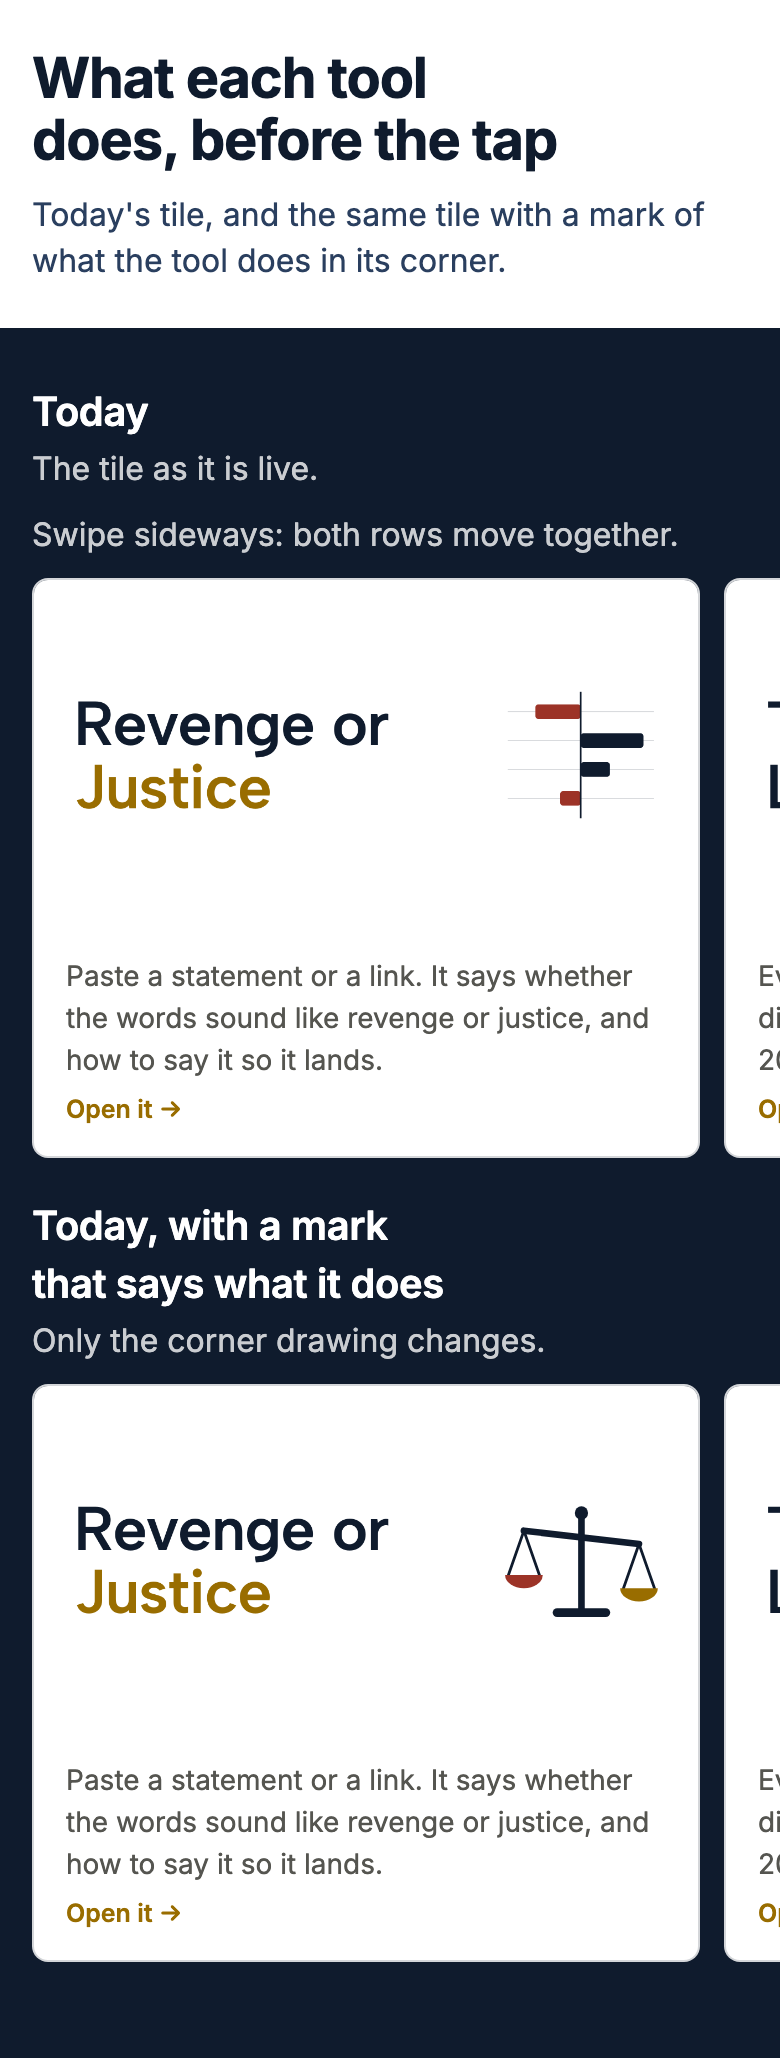
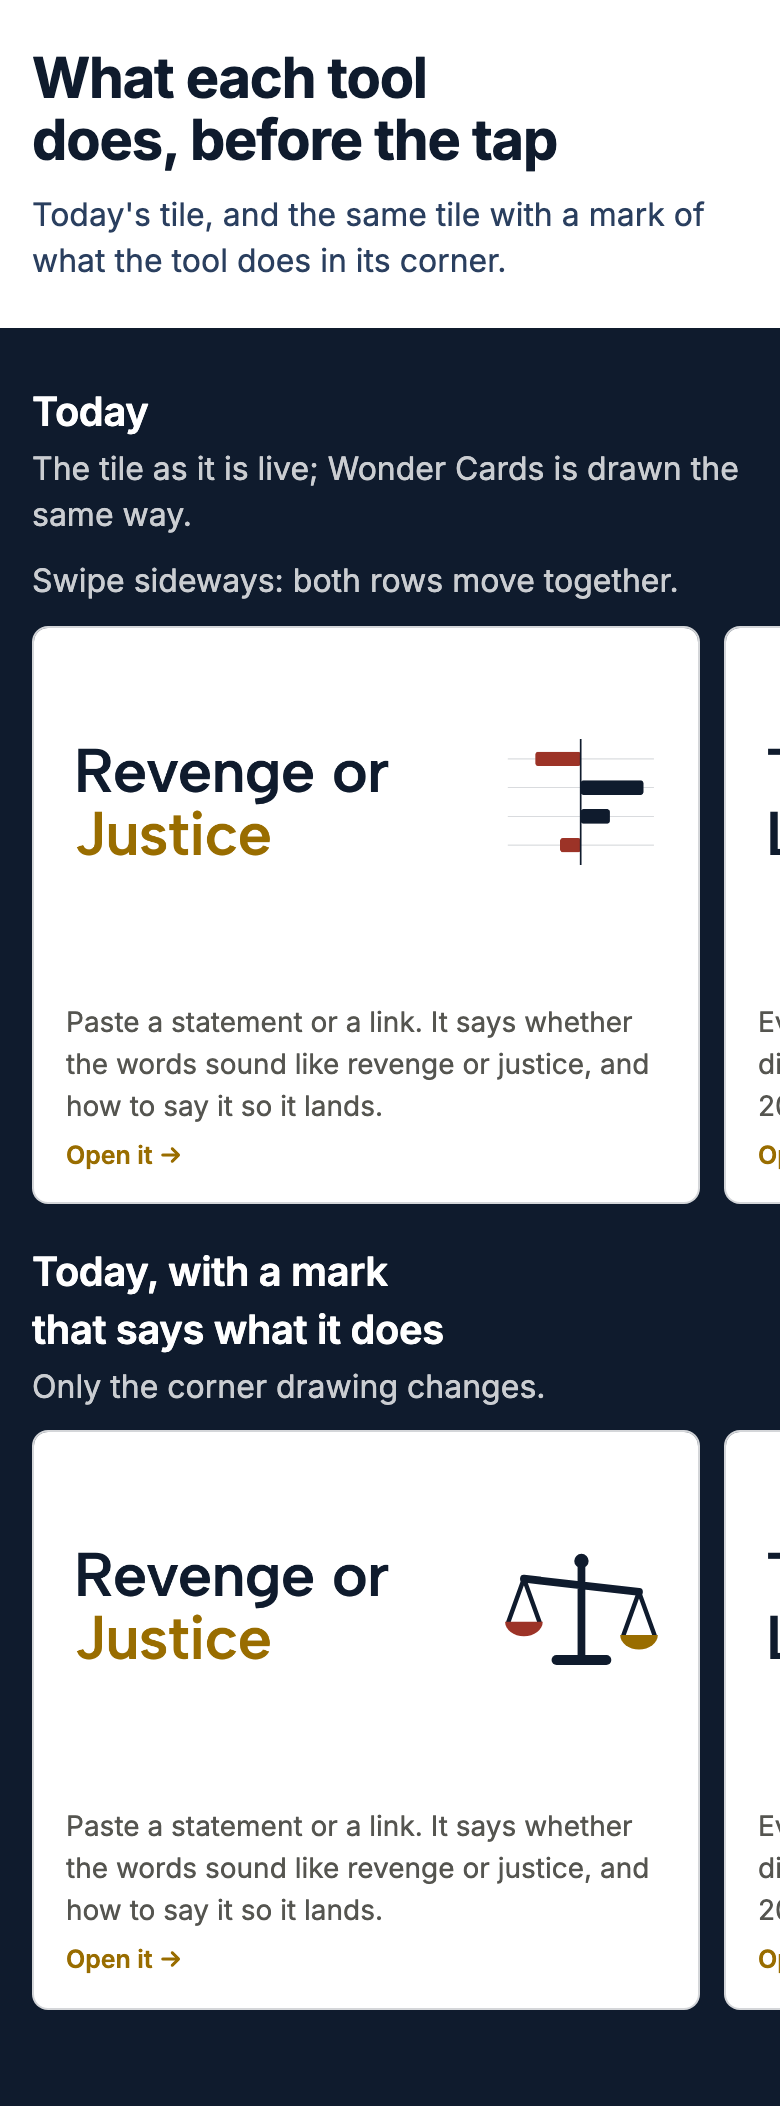
tile-value mockup, round 4 second pass: the review's four fixes
The visual-sociologist review of e9797d2 failed with four fixes, all applied:
1. Which AI: tapering roots, a stem thicker at the top splitting into four curving roots, no end
   circles; the root taken stays gold.
2. One line weight for the set: 14 for the main strokes, 8 for the fine ones (scales, pen, cards).
3. Wonder Cards: a fanned hand of three cards with the question on the front card.
4. The Today note: "The tile as it is live; Wonder Cards is drawn the same way."
Renders at 390 and 1440 redone.

diff --git a/public/mockups/tile-value.html b/public/mockups/tile-value.html
@@ -43,8 +43,8 @@
   one object, flat colour, no text, read at the smallest size it will be seen.
   Signature element: the marks. Scales for Revenge or Justice (justice's gold pan lower, the one that
   weighs); a signature and a pen nib for The Undo List (the pen is how most of it is undone); one stem
-  diverging into three roots, one taken, for Which AI should I use?; the deck's own question card for
-  Wonder Cards.
+  diverging into four tapering roots, the one taken in gold, for Which AI should I use?; a fanned hand of
+  the deck's cards with the question on the front one for Wonder Cards. One line weight for the set.
 
   Token plan: #FFFFFF page; #0F1B2D navy, the ink and the gallery field as live; #555550 the tile line as
   live; #996D00 the link as live; white at 0.78 for the row notes on navy. Inside the marks, only each
@@ -66,9 +66,9 @@
   marks are drawings of the tool's own object in its own colours, sit where the live tile already has a
   drawing, and carry no label of their own. Which AI's roots were drawn three ways side by side
   (docs/renders/tilevalue1-2026-11-07/whichai-roots-trial.html): a fork downward, plant roots under a
-  ground line, a fork sideways. The downward fork is kept: at 78px, its size on a phone, it still reads as
-  one stem splitting three ways with one end taken; the plant roots blur into a stick figure at that size,
-  and the sideways fork reads as a wiring diagram rather than roots.
+  ground line, a fork sideways. The downward fork was kept (at 78px, its size on a phone, it read as one
+  stem splitting); the visual-sociologist review then had its end circles go (they read as a plug or a
+  code branch) and the plant roots' taper come in, without their soil line or sprout.
 
   Wonder Cards is the kids deck, "What Should We Wonder?" at wondercards-teal.vercel.app. It is not on the
   tool list, so its first tile is drawn the way the card route draws a tile
@@ -143,44 +143,62 @@ h1 { font-size: clamp(28px, 1.2rem + 1.6vw, 42px); font-weight: 700; letter-spac
   function box(ground, inner) {
     return '<svg viewBox="0 0 280 280" aria-hidden="true"><rect width="280" height="280" fill="' + ground + '"/>' + inner + '</svg>';
   }
+  // A filled outline along a cubic curve p (four points), w0 wide at its start and w1 at its rounded end.
+  function taper(p, w0, w1) {
+    var L = [], R = [], n = 16;
+    function at(t) {
+      var u = 1 - t, x = 0, y = 0, dx, dy, k = [u * u * u, 3 * u * u * t, 3 * u * t * t, t * t * t];
+      for (var i = 0; i < 4; i++) { x += k[i] * p[i][0]; y += k[i] * p[i][1]; }
+      dx = 3 * u * u * (p[1][0] - p[0][0]) + 6 * u * t * (p[2][0] - p[1][0]) + 3 * t * t * (p[3][0] - p[2][0]);
+      dy = 3 * u * u * (p[1][1] - p[0][1]) + 6 * u * t * (p[2][1] - p[1][1]) + 3 * t * t * (p[3][1] - p[2][1]);
+      var m = Math.sqrt(dx * dx + dy * dy); return [x, y, -dy / m, dx / m];
+    }
+    for (var i = 0; i <= n; i++) {
+      var t = i / n, q = at(t), w = (w0 + (w1 - w0) * t) / 2;
+      L.push((q[0] + q[2] * w).toFixed(1) + ' ' + (q[1] + q[3] * w).toFixed(1));
+      R.unshift((q[0] - q[2] * w).toFixed(1) + ' ' + (q[1] - q[3] * w).toFixed(1));
+    }
+    var r = (w1 / 2).toFixed(1);
+    return '<path d="M' + L.join(' L') + ' A' + r + ' ' + r + ' 0 0 0 ' + R.join(' L') + ' Z"/>';
+  }
   var MARK = {
+    // One line weight for the set: 14 for every main stroke, 8 for the fine ones (the scales' cords, the
+    // signature's line, the card edges).
     // The scales of justice, in its own navy, revenge red and justice gold; justice's pan sits lower.
     'revenge-or-justice': box('#FFFFFF',
       '<g fill="none" stroke="' + NAVY + '" stroke-linecap="round">'
-      + '<path d="M140 64 V232" stroke-width="12"/><path d="M36 88 L244 112" stroke-width="12"/>'
-      + '<path d="M36 88 L8 168 M36 88 L64 168 M244 112 L216 192 M244 112 L272 192" stroke-width="5"/></g>'
-      + '<circle cx="140" cy="56" r="12" fill="' + NAVY + '"/>'
-      + '<rect x="88" y="228" width="104" height="16" rx="8" fill="' + NAVY + '"/>'
-      + '<path d="M2 168 H70 A34 24 0 0 1 2 168 Z" fill="#9C3327"/>'
-      + '<path d="M210 192 H278 A34 24 0 0 1 210 192 Z" fill="#996D00"/>'),
+      + '<path d="M140 64 V230 M36 88 L244 112" stroke-width="14"/>'
+      + '<path d="M36 88 L8 166 M36 88 L64 166 M244 112 L216 190 M244 112 L272 190" stroke-width="8"/></g>'
+      + '<circle cx="140" cy="56" r="13" fill="' + NAVY + '"/>'
+      + '<rect x="86" y="226" width="108" height="18" rx="9" fill="' + NAVY + '"/>'
+      + '<path d="M2 166 H70 A34 26 0 0 1 2 166 Z" fill="#9C3327"/>'
+      + '<path d="M210 190 H278 A34 26 0 0 1 210 190 Z" fill="#996D00"/>'),
     // The stroke of a pen: a signature on its line, the gold nib at its end.
-    'undo': box('#FFFFFF', '<g transform="translate(0 -14)">'
-      + '<path d="M24 226 H256" stroke="' + NAVY + '" stroke-opacity="0.3" stroke-width="5" stroke-linecap="round"/>'
-      + '<path d="M28 200 C44 150 72 120 84 140 C96 160 66 214 84 210 C102 206 112 150 128 156 C144 162 124 204 142 202 C160 200 166 178 180 176" fill="none" stroke="' + NAVY + '" stroke-width="11" stroke-linecap="round" stroke-linejoin="round"/>'
-      + '<g transform="translate(180 176) rotate(40)">'
-      + '<path d="M0 0 L-20 -46 L-20 -80 L20 -80 L20 -46 Z" fill="#D4950A"/>'
-      + '<path d="M0 -6 V-48" stroke="#FFFFFF" stroke-width="4" stroke-linecap="round"/>'
-      + '<circle cx="0" cy="-54" r="6" fill="#FFFFFF"/>'
-      + '<rect x="-22" y="-134" width="44" height="50" rx="8" fill="' + NAVY + '"/></g></g>'),
-    // Diverging roots: one stem splits three ways; the root taken is in gold, the two not taken stay
-    // thin navy with open ends.
+    'undo': box('#FFFFFF',
+      '<path d="M20 216 H252" stroke="' + NAVY + '" stroke-opacity="0.35" stroke-width="8" stroke-linecap="round"/>'
+      + '<path d="M24 186 C38 128 74 96 88 120 C102 146 62 206 84 200 C106 194 112 128 132 136 C152 144 124 192 146 190 C164 188 168 166 182 162" fill="none" stroke="' + NAVY + '" stroke-width="14" stroke-linecap="round" stroke-linejoin="round"/>'
+      + '<g transform="translate(184 160) rotate(40)">'
+      + '<path d="M0 0 L-22 -48 L-22 -82 L22 -82 L22 -48 Z" fill="#D4950A"/>'
+      + '<path d="M0 -8 V-50" stroke="#FFFFFF" stroke-width="5" stroke-linecap="round"/>'
+      + '<circle cx="0" cy="-56" r="7" fill="#FFFFFF"/>'
+      + '<rect x="-24" y="-136" width="48" height="50" rx="9" fill="' + NAVY + '"/></g>'),
+    // Diverging roots: a stem that thickens toward the top splits into four roots that taper as they
+    // curve away; the one taken is gold, drawn first so the others' bases sit on it. taper() below draws each as a filled outline.
     'which-ai-should-i-use': box('#FFFFFF',
-      '<g fill="none" stroke-linecap="round">'
-      + '<path d="M140 112 C140 160 60 170 52 226 M140 112 V226" stroke="' + NAVY + '" stroke-width="8"/>'
-      + '<path d="M140 112 C140 160 220 170 228 226" stroke="#D4950A" stroke-width="16"/>'
-      + '<path d="M140 30 V114" stroke="' + NAVY + '" stroke-width="16"/></g>'
-      + '<circle cx="52" cy="238" r="13" fill="#FFFFFF" stroke="' + NAVY + '" stroke-width="6"/>'
-      + '<circle cx="140" cy="238" r="13" fill="#FFFFFF" stroke="' + NAVY + '" stroke-width="6"/>'
-      + '<circle cx="228" cy="240" r="21" fill="#D4950A"/>'),
-    // The deck's own card, as its app icon draws it: a question card on a sunshine card, the tangerine
-    // suit shape in its corner.
+      '<g fill="#D4950A">' + taper([[147, 110], [160, 156], [214, 170], [250, 240]], 18, 8) + '</g>'
+      + '<g fill="' + NAVY + '">'
+      + taper([[133, 110], [124, 160], [66, 170], [30, 240]], 15, 7)
+      + taper([[137, 110], [134, 170], [104, 202], [98, 256]], 15, 7)
+      + taper([[143, 110], [146, 170], [170, 202], [174, 256]], 15, 7) + '</g>'
+      + '<g fill="' + NAVY + '">' + taper([[140, 22], [140, 60], [140, 100], [140, 134]], 36, 26) + '</g>'),
+    // A fanned hand of three of the deck's cards, the question on the front one.
     'wonder-cards': box('#3B3560',
-      '<rect x="65" y="45" width="150" height="190" rx="20" fill="#FFD166" transform="rotate(9 140 140)"/>'
-      + '<g transform="rotate(-6 140 140)">'
-      + '<rect x="65" y="45" width="150" height="190" rx="20" fill="#FFFDF8"/>'
-      + '<path d="M166 62 h36 a18 18 0 0 1 -36 0 z" fill="#FFAA5C"/>'
-      + '<path d="M110 114 C110 82 170 82 170 114 C170 138 140 140 140 166" fill="none" stroke="#3B3560" stroke-width="20" stroke-linecap="round" stroke-linejoin="round"/>'
-      + '<circle cx="140" cy="198" r="13" fill="#3B3560"/></g>'),
+      '<g stroke="#3B3560" stroke-width="8">'
+      + '<rect x="80" y="62" width="120" height="166" rx="16" fill="#FFAA5C" transform="rotate(-20 140 250)"/>'
+      + '<rect x="80" y="62" width="120" height="166" rx="16" fill="#FFD166" transform="rotate(20 140 250)"/>'
+      + '<rect x="80" y="62" width="120" height="166" rx="16" fill="#FFFDF8"/></g>'
+      + '<path d="M114 118 C114 90 166 90 166 118 C166 138 140 142 140 164" fill="none" stroke="#3B3560" stroke-width="16" stroke-linecap="round" stroke-linejoin="round"/>'
+      + '<circle cx="140" cy="192" r="11" fill="#3B3560"/>'),
   };
 
   // The four tools. name, href and line come from src/data/tools.ts as of 2026-11-07, except Wonder Cards,
@@ -199,7 +217,7 @@ h1 { font-size: clamp(28px, 1.2rem + 1.6vw, 42px); font-weight: 700; letter-spac
   ];
 
   var ROWS = [
-    { key: 'today', title: 'Today', note: 'The tile as it is live.' },
+    { key: 'today', title: 'Today', note: 'The tile as it is live; Wonder Cards is drawn the same way.' },
     { key: 'mark', title: 'Today, with a mark that says what it does', note: 'Only the corner drawing changes.' },
   ];
 
